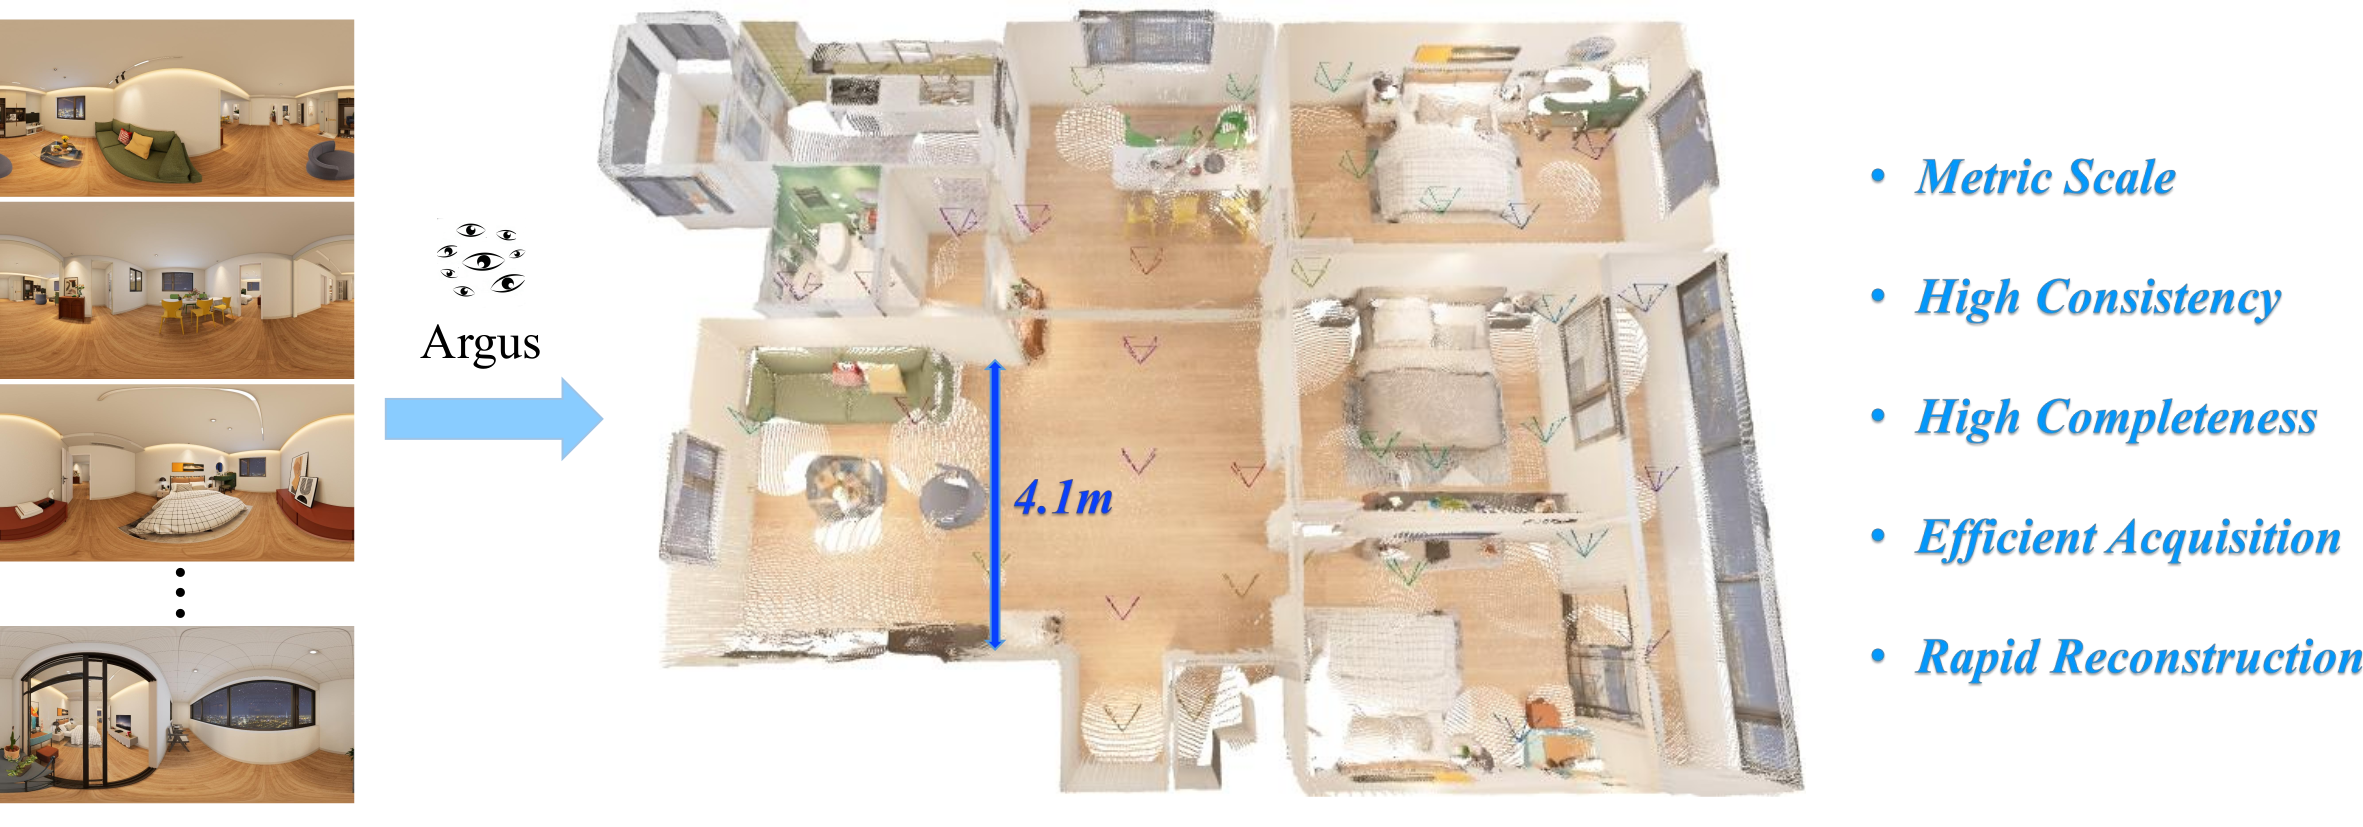
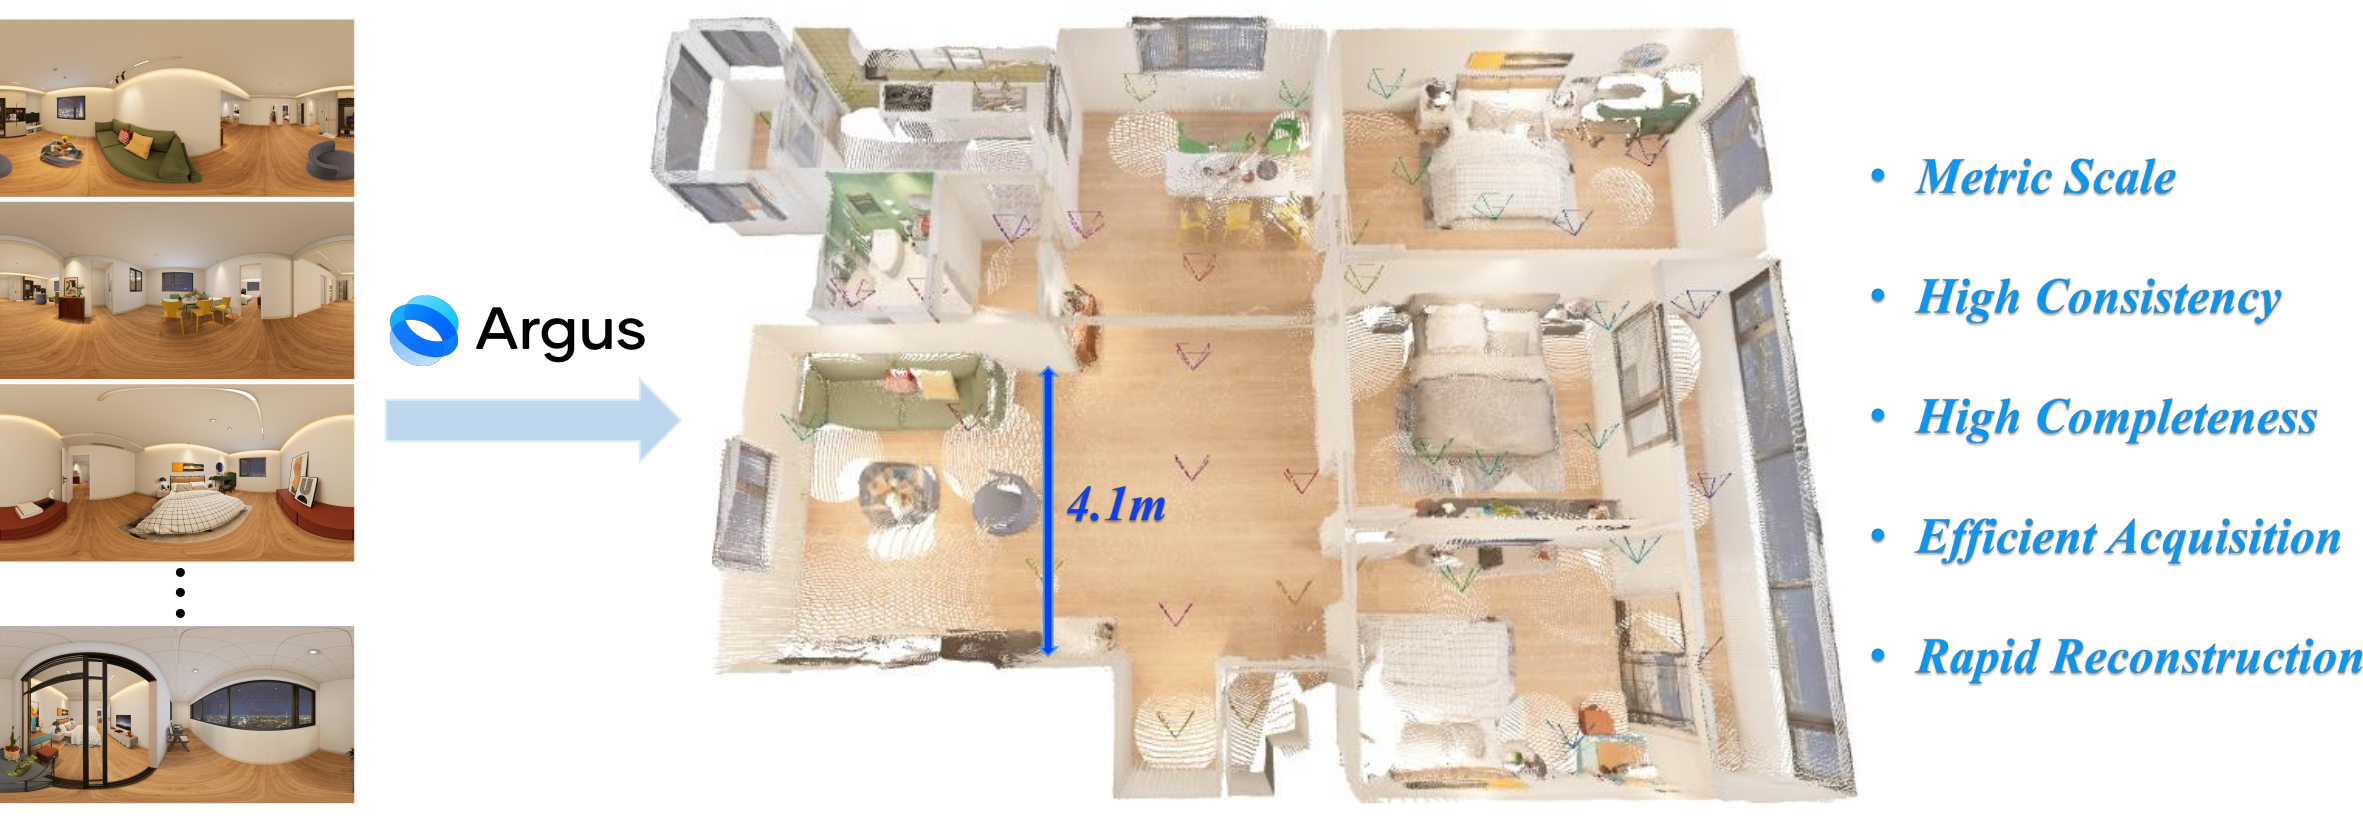
Update site for final (camera-ready) paper version
- venue: Accepted to ECCV 2026
- abstract: replaced with final version
- affiliations: add country
- dataset stats: drop unsupported 'designer templates' card (RGB-D + pose)
- method: remove unverified parameter count
- results: add zero-shot reconstruction figure (other_pano)
- refresh all figures from updated paper PDFs
- add CNAME for custom domain argus-paper.realsee.ai

Changed region(s): [[0.1545, 0.0, 0.8032, 0.9674]]

diff --git a/index.html b/index.html
@@ -20,7 +20,7 @@
   <!-- ===== Hero ===== -->
   <header class="hero">
     <div class="container">
-      <div class="venue-badge">ECCV 2026 · Under Review</div>
+      <div class="venue-badge">Accepted to ECCV 2026</div>
       <h1 class="title"><span class="brand">Argus</span>: Metric Panoramic 3D Reconstruction<br>for Indoor Scenes</h1>
       <p class="subtitle">A data-driven feed-forward network that reconstructs complete, consistent,
         metric-scale indoor 3D scenes from sparse, unordered panoramic images.</p>
@@ -35,7 +35,7 @@
         <span class="author">Cihui Pan<sup>1,2</sup></span>
       </div>
       <div class="affiliations">
-        <sup>1</sup>Realsee &nbsp;&nbsp; <sup>2</sup>Quanzhou University of Information Engineering
+        <sup>1</sup>Realsee, China &nbsp;&nbsp; <sup>2</sup>Quanzhou University of Information Engineering, China
       </div>
 
       <div class="links">
@@ -64,19 +64,17 @@
   <section id="abstract">
     <div class="container prose">
       <h2 class="section-title">Abstract</h2>
-      <p>We introduce <b>Argus</b>, a data-driven feed-forward network for metric panoramic 3D reconstruction,
-        and <b>Realsee3D</b>, a large-scale indoor multi-view panoramic RGB-D dataset. Realsee3D features
-        10,000 scenes (1,000 LiDAR-captured real scenes and 9,000 synthetic scenes built from over 100
-        designer-curated templates), 95,962 rooms, and 299,073 viewpoints. It provides sparse unordered
-        panoramic image sets that reflect practical acquisition, in which a suboptimal reference view can
-        degrade reconstruction robustness.</p>
-      <p>Argus addresses this issue with <b>covisibility learning</b> to select a reliable reference view for
-        anchoring the metric global coordinate system. We further factorize the pixel-to-world mapping into
-        explicit geometric transforms with per-step supervision, and enforce joint constraints via composing
-        cross-coordinate-frame transforms. This approach improves geometric consistency, simplifies learning,
-        and reinforces mutual facilitation among subtasks. To evaluate these designs, we establish a panoramic
-        visual geometry benchmark on Realsee3D for camera pose estimation, depth estimation, and point cloud
-        reconstruction, where Argus achieves <b>state-of-the-art</b> results across all tasks.</p>
+      <p>Metric feed-forward 3D reconstruction for panoramic data remains under-explored due to the lack of
+        large-scale panoramic RGB-D training data. We present <b>Realsee3D</b>, a hybrid dataset of 10K indoor
+        scenes (1K real, 9K synthetic) with 299K panoramic viewpoints and precise metric annotations, and
+        <b>Argus</b>, a feed-forward network trained on it for metric panoramic 3D reconstruction. In the sparse
+        unordered capture setting of Realsee3D, a poorly chosen coordinate anchor can cause global pose drift.</p>
+      <p>Argus addresses this with a learned <b>covisibility module</b> that selects the geometrically optimal
+        reference view to anchor the metric world frame. To further improve multi-task learning, we decompose the
+        bidirectional pixel-to-world mapping into interpretable sub-steps with per-step supervision and
+        cross-coordinate joint constraints, reinforcing geometric consistency across prediction branches. On the
+        Realsee3D benchmark, Argus achieves <b>state-of-the-art</b> metric performance in camera pose estimation,
+        depth estimation, and point cloud reconstruction.</p>
     </div>
   </section>
 
@@ -94,7 +92,7 @@
         <p>The core idea is to <b>explicitly factorize</b> the bidirectional pixel-to-world transform into several
           interpretable intermediate geometric representations, supervising each sub-step individually and enforcing
           joint pose constraints across coordinate frames. This lowers optimization difficulty and strengthens
-          multi-task synergy. The model (~1.31B parameters) outputs native metric scale without post-hoc alignment.</p>
+          multi-task synergy. The model outputs native metric scale without post-hoc alignment.</p>
       </div>
       <div class="figure">
         <img src="./static/images/network.png" alt="Argus network architecture">
@@ -118,7 +116,7 @@
         <div class="stat"><div class="num">10,000</div><div class="lbl">Scenes<br>(1K real + 9K synthetic)</div></div>
         <div class="stat"><div class="num">95,962</div><div class="lbl">Rooms</div></div>
         <div class="stat"><div class="num">299,073</div><div class="lbl">Viewpoints</div></div>
-        <div class="stat"><div class="num">100+</div><div class="lbl">Designer templates</div></div>
+        <div class="stat"><div class="num">RGB-D</div><div class="lbl">+ metric pose<br>annotations</div></div>
       </div>
       <div class="figure">
         <img src="./static/images/realsee3d_overview.png" alt="Realsee3D dataset overview">
@@ -148,6 +146,11 @@
       <div class="figure">
         <img src="./static/images/vis.png" alt="Generalization visualization">
         <p class="caption"><b>Generalization.</b> Reconstruction results on diverse indoor scenes.</p>
+      </div>
+      <div class="figure">
+        <img src="./static/images/other_pano.png" alt="Zero-shot reconstruction on unseen datasets">
+        <p class="caption"><b>Zero-shot reconstruction.</b> Argus generalizes to unseen panoramic datasets it was
+          never trained on.</p>
       </div>
       <div class="figure">
         <img src="./static/images/native_comp.png" alt="Perspective vs panoramic reconstruction">

diff --git a/README.md b/README.md
@@ -3,7 +3,7 @@
 This branch (`gh-pages`) hosts the static project page for
 **Argus: Metric Panoramic 3D Reconstruction for Indoor Scenes**.
 
-Live site: https://realsee-developer.github.io/Argus/
+Live site: https://argus-paper.realsee.ai/
 
 ## Structure
 ```
@@ -12,6 +12,7 @@ static/css/index.css    # styles
 static/js/index.js      # BibTeX copy button
 static/images/*.png     # figures exported from the paper
 .nojekyll               # disable Jekyll processing
+CNAME                   # custom domain: argus-paper.realsee.ai
 ```
 
 ## Local preview
